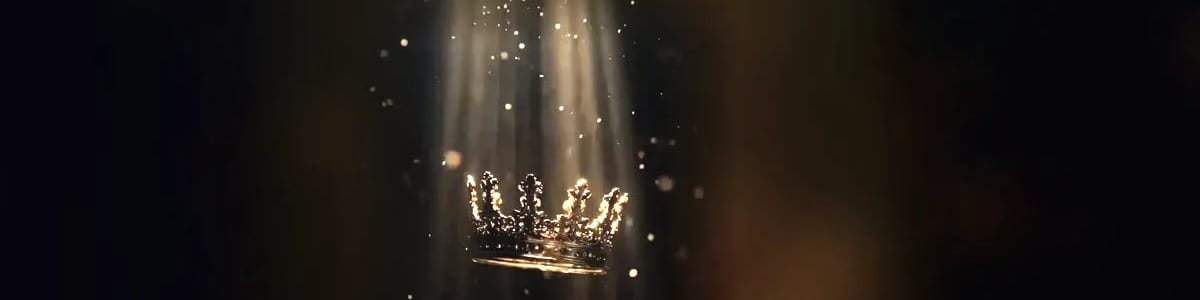
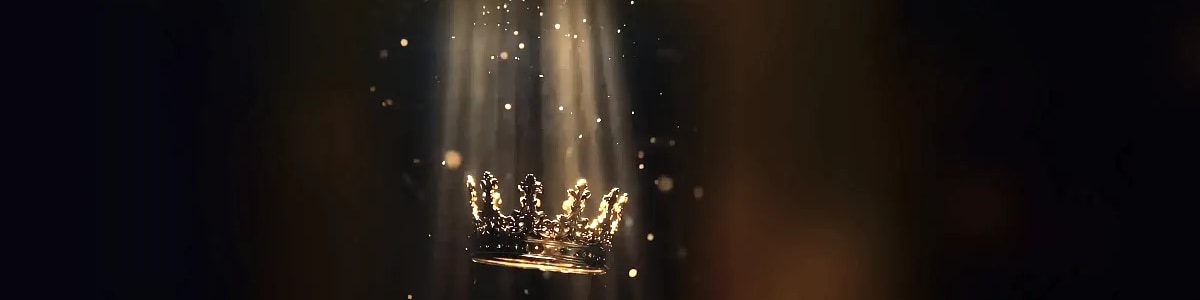
Aperçu Discord plus net : textes agrandis, bannières refaites en pleine qualité

Changed region(s): [[0.37, 0.57, 0.5242, 0.93], [0.5242, 0.9, 0.555, 0.93], [0.4008, 0.18, 0.4317, 0.21]]

diff --git a/src/pages/api/og/player.js b/src/pages/api/og/player.js
@@ -115,8 +115,8 @@ export default async function handler(request) {
         </div>
 
         {/* Identité, points, statistiques */}
-        <div style={{ position: "absolute", left: 350, top: BANNER + 8, width: 790, display: "flex", flexDirection: "column" }}>
-          <div style={{ display: "flex", alignItems: "center", gap: 12, fontFamily: text, fontSize: 16, fontWeight: 700, letterSpacing: 6, color: goldLight }}>
+        <div style={{ position: "absolute", left: 350, top: BANNER + 2, width: 790, display: "flex", flexDirection: "column" }}>
+          <div style={{ display: "flex", alignItems: "center", gap: 12, fontFamily: text, fontSize: 19, fontWeight: 700, letterSpacing: 5, color: goldLight }}>
             <div style={{ display: "flex" }}>
               SIX<span style={{ color: gold }}>SENCE</span>
             </div>
@@ -143,23 +143,23 @@ export default async function handler(request) {
                 {profile.points}
               </div>
               <div style={{ display: "flex", marginBottom: 6, fontFamily: text }}>
-                <span style={{ fontSize: 18, fontWeight: 700, letterSpacing: 4, color: "rgba(255,255,255,0.6)" }}>POINTS</span>
+                <span style={{ fontSize: 20, fontWeight: 700, letterSpacing: 4, color: "rgba(255,255,255,0.7)" }}>POINTS</span>
               </div>
             </div>
           </div>
 
-          <div style={{ display: "flex", gap: 2, marginTop: 16, background: "rgba(255,255,255,0.1)" }}>
+          <div style={{ display: "flex", gap: 2, marginTop: 10, background: "rgba(255,255,255,0.1)" }}>
             {stats.map((stat) => (
-              <div key={stat.label} style={{ display: "flex", flexDirection: "column", flex: 1, padding: "10px 16px", background: "#0d0c0a" }}>
-                <span style={{ fontFamily: text, fontSize: 13, fontWeight: 700, letterSpacing: 3, color: "rgba(255,255,255,0.45)", textTransform: "uppercase" }}>{stat.label}</span>
-                <span style={{ fontFamily: display, fontSize: 36, fontWeight: 900, marginTop: 4 }}>{stat.value}</span>
+              <div key={stat.label} style={{ display: "flex", flexDirection: "column", flex: 1, padding: "8px 16px", background: "#0d0c0a" }}>
+                <span style={{ fontFamily: text, fontSize: 16, fontWeight: 700, letterSpacing: 2, color: "rgba(255,255,255,0.6)", textTransform: "uppercase" }}>{stat.label}</span>
+                <span style={{ fontFamily: display, fontSize: 42, fontWeight: 900, marginTop: 2 }}>{stat.value}</span>
               </div>
             ))}
           </div>
 
           {/* Progression vers le rang suivant */}
-          <div style={{ display: "flex", flexDirection: "column", marginTop: 16 }}>
-            <div style={{ display: "flex", justifyContent: "space-between", alignItems: "flex-end", fontFamily: text, fontSize: 15, fontWeight: 700, letterSpacing: 3, textTransform: "uppercase" }}>
+          <div style={{ display: "flex", flexDirection: "column", marginTop: 12 }}>
+            <div style={{ display: "flex", justifyContent: "space-between", alignItems: "flex-end", fontFamily: text, fontSize: 18, fontWeight: 700, letterSpacing: 3, textTransform: "uppercase" }}>
               <div style={{ display: "flex", gap: 10, alignItems: "center" }}>
                 <span style={{ color: rank.text }}>{rank.name}</span>
                 {next.rank ? <span style={{ color: "rgba(255,255,255,0.35)" }}>→</span> : null}
@@ -232,7 +232,7 @@ function CardBanner({ card, image, display }) {
 /** Ligne du bas : série record à gauche (et MVP du mois), lien du site discret à droite. */
 function Footer({ streak, mvpMonths, text }) {
   return (
-    <div style={{ display: "flex", justifyContent: "space-between", alignItems: "center", marginTop: 10, fontFamily: text, fontSize: 15, fontWeight: 500, color: "rgba(255,255,255,0.5)" }}>
+    <div style={{ display: "flex", justifyContent: "space-between", alignItems: "center", marginTop: 10, fontFamily: text, fontSize: 18, fontWeight: 500, color: "rgba(255,255,255,0.6)" }}>
       <div style={{ display: "flex", gap: 24 }}>
         <span style={{ display: "flex", gap: 6 }}>
           <span style={{ color: "#fff", fontWeight: 700 }}>Record</span> : {streak} victoire{streak > 1 ? "s" : ""} d'affilée
@@ -240,7 +240,7 @@ function Footer({ streak, mvpMonths, text }) {
         {mvpMonths > 0 ? <span style={{ color: goldLight }}>MVP du mois ×{mvpMonths}</span> : null}
       </div>
       {/* Lien discret : l'en-tête affiche déjà SIXSENCE en or. */}
-      <span style={{ color: "rgba(255,255,255,0.4)" }}>sixsence.fr</span>
+      <span style={{ color: "rgba(255,255,255,0.45)" }}>sixsence.fr</span>
     </div>
   );
 }

diff --git a/src/pages/cod/profile/[id].js b/src/pages/cod/profile/[id].js
@@ -49,7 +49,7 @@ export default function PlayerProfilePage({ meta }) {
 
   const title = meta ? `${meta.username} · ${rankFor(meta.points).name} — ${meta.points} pts` : "Profil joueur";
   // Le paramètre v change avec les résultats et la carte de visite : Discord recharge l'image à chaque évolution.
-  const image = meta ? `${SITE_URL}/api/og/player?id=${id}&v=r10-${meta.points}-${meta.wins}-${meta.losses}-${meta.card}` : null;
+  const image = meta ? `${SITE_URL}/api/og/player?id=${id}&v=r11-${meta.points}-${meta.wins}-${meta.losses}-${meta.card}` : null;
 
   return (
     <>
